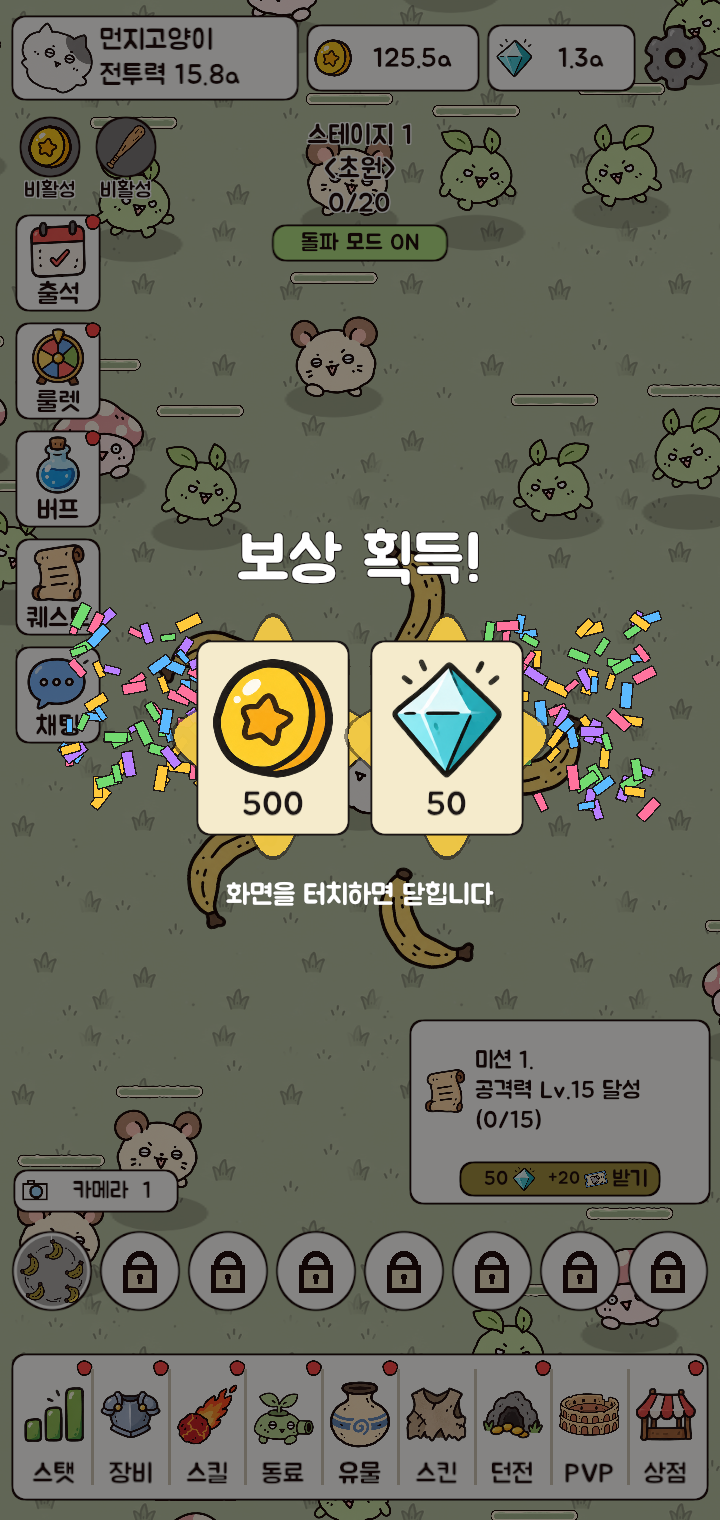
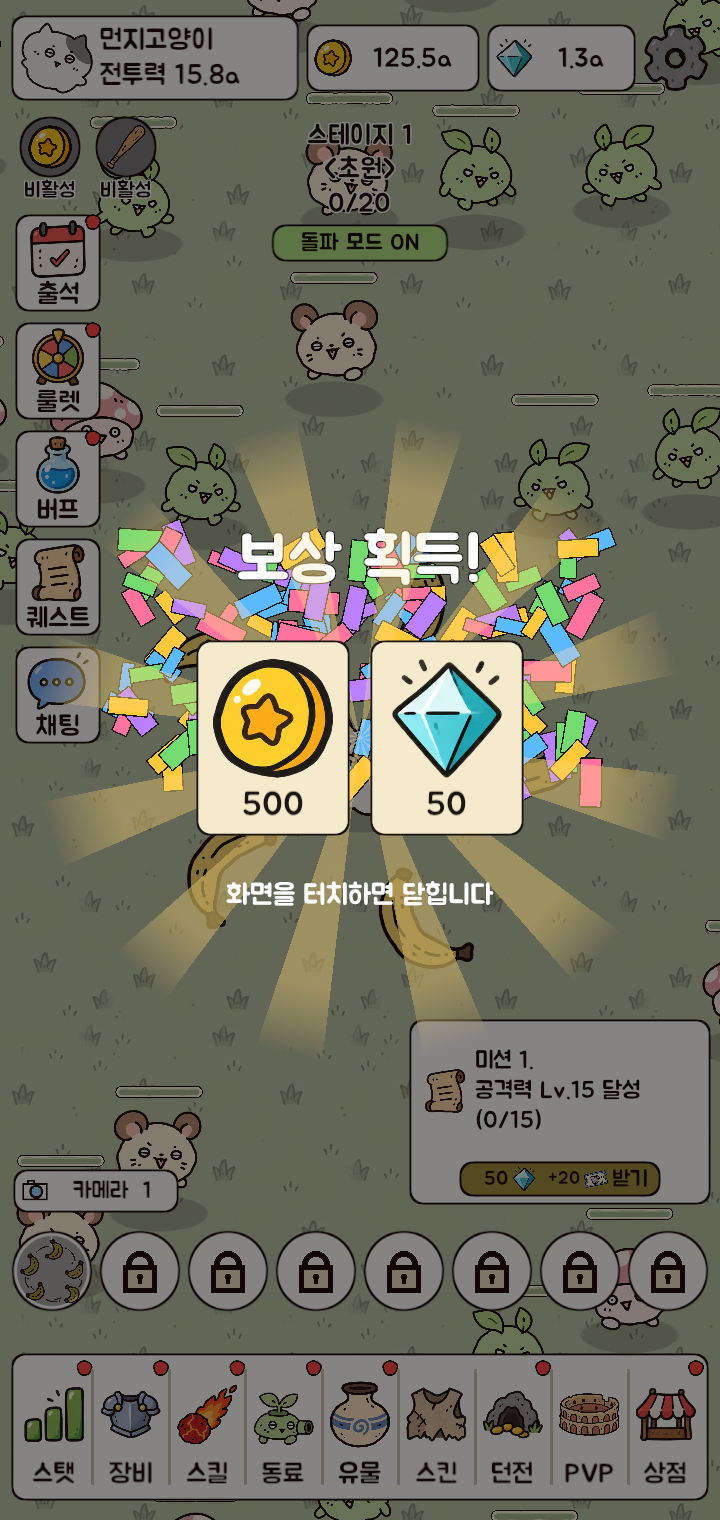
Record verified skill refinements and rotating reward celebration

Changed region(s): [[0.0611, 0.2474, 0.9167, 0.6803], [0.1833, 0.5257, 0.3972, 0.6493], [0.3972, 0.1855, 0.5194, 0.2783]]

diff --git a/Documentation/UI/ASCENSION.md b/Documentation/UI/ASCENSION.md
@@ -10,12 +10,12 @@
 | --- | --- | --- |
 | 근원 | 원형 칼날 | 강화된 보라색 칼 22개를 원형으로 0.04초 간격 발사 |
 | 근원 | 불골렘 소환 | 불골렘 10마리가 추적하고 내려찍기 |
-| 근원 | 선인장 분노 | 얼굴 없는 기다란 선인장 4개가 회전하며 관통 |
+| 근원 | 선인장 분노 | 긴 삼각 가시가 돋은 얼굴 없는 선인장 4개가 몸통 옆면으로 굴러가며 관통. 긴 축은 유지하고 짧은 축만 굴림 변형 |
 | 근원 | 불꽃 토네이도 | 불꽃 모양 회오리 2컷 애니메이션, 별도 불꽃 파티클 없음 |
-| 근원 | 칼바람 표창 | 강한 칼날 모양의 표창 18개 방사형 공격 |
+| 근원 | 칼바람 표창 | 강한 칼날 모양의 표창 18개 방사형 공격, 초당 1회전(기존 2.5회전의 40%) |
 | 초월 | 짱센용 | 꼬마용 1.7배 크기, 날개 방향 수정 |
-| 초월 | 신의 손 | 손바닥 3개 낙하, 손바닥 잔상과 손바닥 모양 바닥 자국, 불꽃 없음 |
-| 초월 | 미사일의 분노 | 13발 순차 발사, 기존 크기 1.5배, 접촉 시 범위 폭발 |
+| 초월 | 신의 손 | 손바닥 3개 낙하, 공중 손바닥 잔상. 지면에는 다섯 손가락과 손바닥 윤곽대로 파인 갈색 흙 구덩이, 불꽃 없음 |
+| 초월 | 미사일의 분노 | 빨간 탄두·빨간 날개·흰 몸통의 미사일 13발 순차 발사, 기존 크기 1.5배, 접촉 시 범위 폭발 |
 | 초월 | 톱날뱀 | 황동 기어·리벳·강철 톱날의 스팀펑크 뱀 5마리 |
 | 초월 | 태양 연발 | 얼굴 없는 이글거리는 태양 3개, 각각 7회 튕김 |
 
@@ -51,18 +51,25 @@
 
 플레이 중 밸런스 창의 시작값·증가율·구간·강화 비용·유지 거리를 바꾸면 즉시 적용하고 `ServicesTuning.json`과 `Collections.json`에 저장한다. 실행 중 적용 버튼도 저장을 포함한다. 변경 없는 다시 그리기는 파일을 쓰지 않으며 실행 취소·다시 실행도 자동 저장한다. 편집 모드에서는 저장 버튼을 사용한다.
 
-보상 카드 뒤에는 굵은 외곽선과 단색 노랑의 둥근 만화식 광채를 표시한다. 보상 창이 열리면 실제 ParticleSystem에서 양쪽 축하 색종이를 발사하고 uGUI로 렌더한다. 게임 일시정지에도 재생되며 팝업 종료 시 함께 제거된다.
+공격력 버프와 골드 버프는 각각 +100%(활성 중 배율 2배)이며 화면 설명도 같은 값을 표시한다.
+
+보상 카드 뒤에는 반투명 금빛 방사형 줄무늬 12개가 시계 방향으로 초당 18도 회전한다. 보상 창이 열리면 실제 ParticleSystem에서 양쪽 축하 색종이를 발사하고 uGUI로 렌더한다. 색종이 크기는 18~32로 기존의 2배이며 발사 범위도 넓혔다. 게임 일시정지에도 재생되며 팝업 종료 시 함께 제거된다.
 
 ## 이미지와 CI
 
-이미지는 내장 `image_gen`으로 생성·편집했다. [최종 이미지 프롬프트](ascension-refinement-prompts.json)에 전체 지시를 기록했다.
+이미지는 내장 `image_gen`으로 생성·편집했다. [확장 이미지 프롬프트](ascension-refinement-prompts.json), [가시 선인장·흰 미사일·손바닥 구덩이와 썸네일 프롬프트](skill-impact-refinement-prompts.json)에 전체 지시를 기록했다.
 
-- `AscensionSkillRefinements.png`: 선인장·표창·토네이도 2컷·태양 전투 아트. 사용하지 않는 이전 머리 셀은 런타임에서 참조하지 않는다.
+- `AscensionSkillRefinements.png`: 표창·토네이도 2컷·태양 전투 아트. 사용하지 않는 이전 머리·선인장 셀은 런타임에서 참조하지 않는다.
+- `SkillSpikyCactus.png`, `SkillWhiteMissile.png`, `SkillPalmCrater.png`: 새 선인장·미사일·손바닥 구덩이 전투 아트.
+- `SkillThumbsCactusMissile.png`: 네 개의 가시 선인장과 세 발의 흰 미사일 썸네일. 기존 썸네일 레이아웃에서 해당 두 아이콘만 교체한다.
 - `SkillPurpleBlade.png`: 보라색 전투 칼날.
 - `SkillThumbsAscension.png`: 신규 스킬 썸네일 10개와 톱날뱀 머리·몸통 전투 아트. 명시적 영역으로 잘림을 방지한다.
 - 기존 동료와 불골렘 아틀라스를 유지한다. [동료 미리보기](AscensionCompanionsPreview.png).
 - 실제 Unity 렌더: [스킬 썸네일](AscensionSkillThumbnailsPreview.png), [보스 체력·타이머](BossChallengePreview.png), [보상 후광](RewardHaloPreview.png), [보상 축하 파티클](RewardCelebrationPreview.png).
+- 전투 수정 렌더: [옆면으로 구르는 선인장](CactusRollingPreview.png), [손바닥 모양으로 파인 바닥](PalmCraterPreview.png), [빨간 탄두·날개와 흰 몸통 미사일](MissileRagePreview.png).
 
 검증은 로컬 Unity 조작 없이 GitHub Actions Unity PlayMode로 수행한다. `ascension` 범위는 스킬 전투·아트, 카탈로그·확률·저장, 스테이지 경계·보스 시간·사망·대시, 밸런스 자동 저장과 기존 전투 검사를 포함한다. 결과 XML 및 실제 Unity 렌더는 CI 아티팩트에 저장한다.
 
-2026-09-24 검증: [확장 검사 38개](https://github.com/kuzuni/20260920/actions/runs/35934505959) 중 37개 통과 후 보스 종료 순간의 HUD 갱신 문제를 수정했다. 수정 커밋 `521e8ee`의 [보스·진행·보상 관련 재검증 7개](https://github.com/kuzuni/20260920/actions/runs/35935847237)는 전부 통과했다. 앞선 나머지 검사의 구현은 변경하지 않았다. 미리보기는 이 두 실행의 실제 Unity 렌더다.
+2026-09-24 검증: [확장 검사 38개](https://github.com/kuzuni/20260920/actions/runs/35934505959) 중 37개 통과 후 보스 종료 순간의 HUD 갱신 문제를 수정했다. 수정 커밋 `521e8ee`의 [보스·진행·보상 관련 재검증 7개](https://github.com/kuzuni/20260920/actions/runs/35935847237)는 전부 통과했다.
+
+이어 커밋 `3a5176f`의 [전투 아트·굴림·회전·버프·보상 수정 검사 10개](https://github.com/kuzuni/20260920/actions/runs/35964294216)가 모두 통과했다. `ascension-refinements` 범위는 옆면 굴림, 표창 초당 1회전, 손바닥 지면 이미지와 고정 위치, 스킬 썸네일·개별 전투 렌더, 미사일 접촉 폭발, 버프 +100%와 저장·만료, 회전 후광과 커진 파티클, 기존 오이·메테오 동작을 확인한다. 스킬·보상 미리보기는 이 최신 실행의 실제 Unity 렌더다.

diff --git a/Documentation/CI.md b/Documentation/CI.md
@@ -6,6 +6,8 @@
 
 `ascension-boss`는 보스 종료·진행 경계·대시·사망·보상 파티클의 관련 검사 7개다. 확장 검사 38개 중 37개 통과 후 발견한 종료 시점 HUD 문제를 수정했으며, [재검증 실행 35935847237](https://github.com/kuzuni/20260920/actions/runs/35935847237)에서 7개 모두 통과했다. 상세 결과와 최종 화면은 위 확장 기록에 남긴다.
 
+`ascension-refinements`는 선인장 옆면 굴림·강한 가시, 표창 회전 속도, 손바닥 구덩이, 흰 미사일과 썸네일, 버프 +100%, 회전 후광·확대 파티클을 검증한다. [실행 35964294216](https://github.com/kuzuni/20260920/actions/runs/35964294216)에서 관련 검사 10개가 모두 통과했다.
+
 ## 2026-09-22 진행 규칙 개정
 
 - 현재 필드는 200마리로 시작하고 100마리 미만이면 200마리로 보충한다. 생존 수와 스테이지 처치 진행도를 별도로 검사한다.
